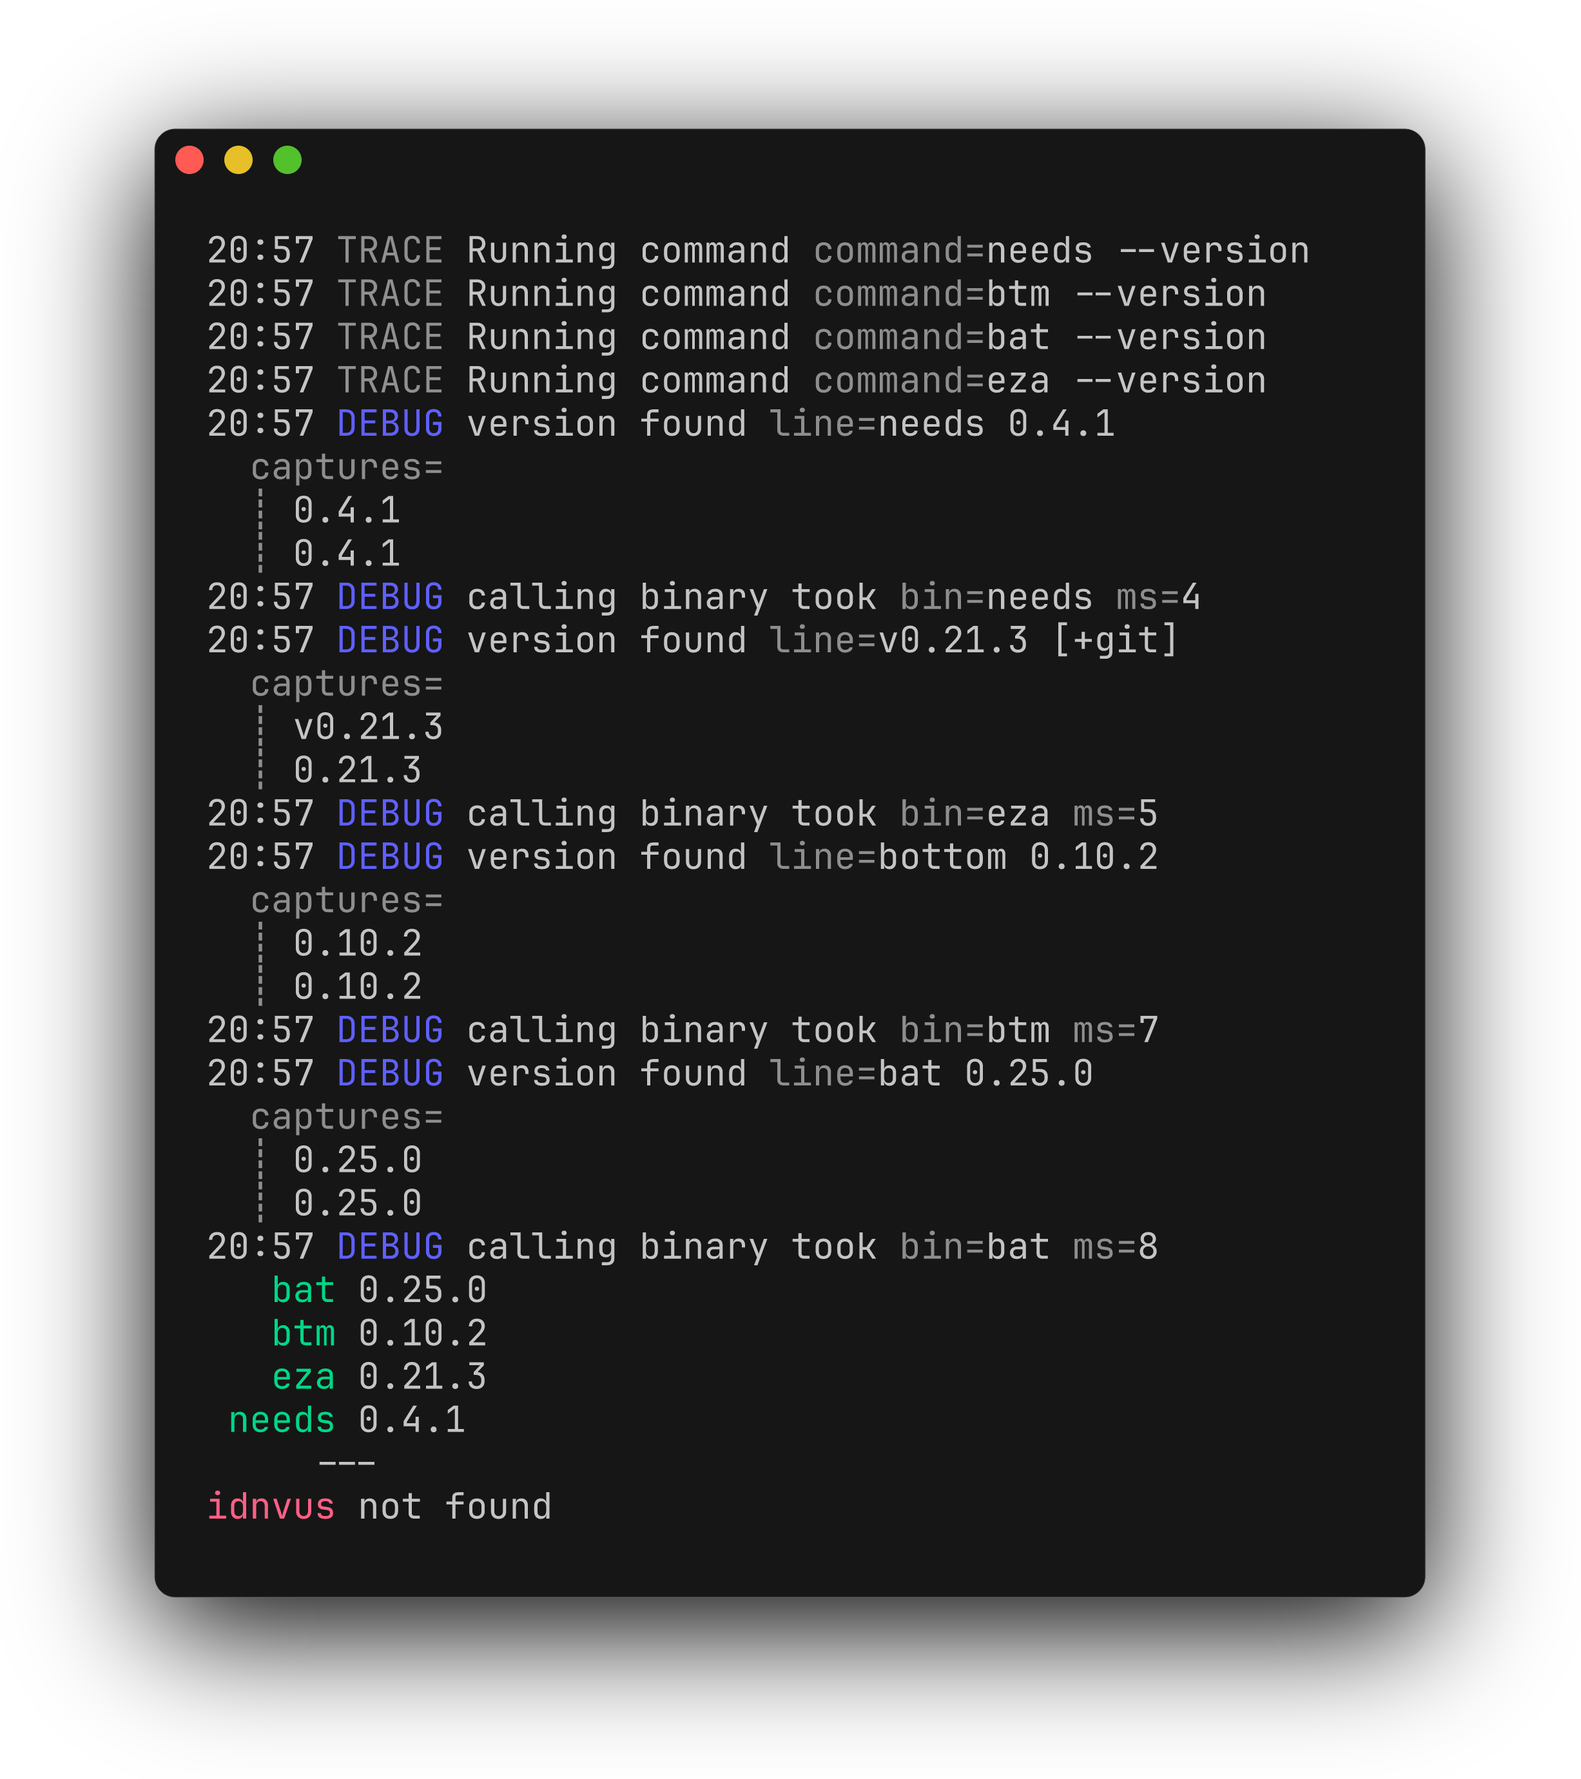
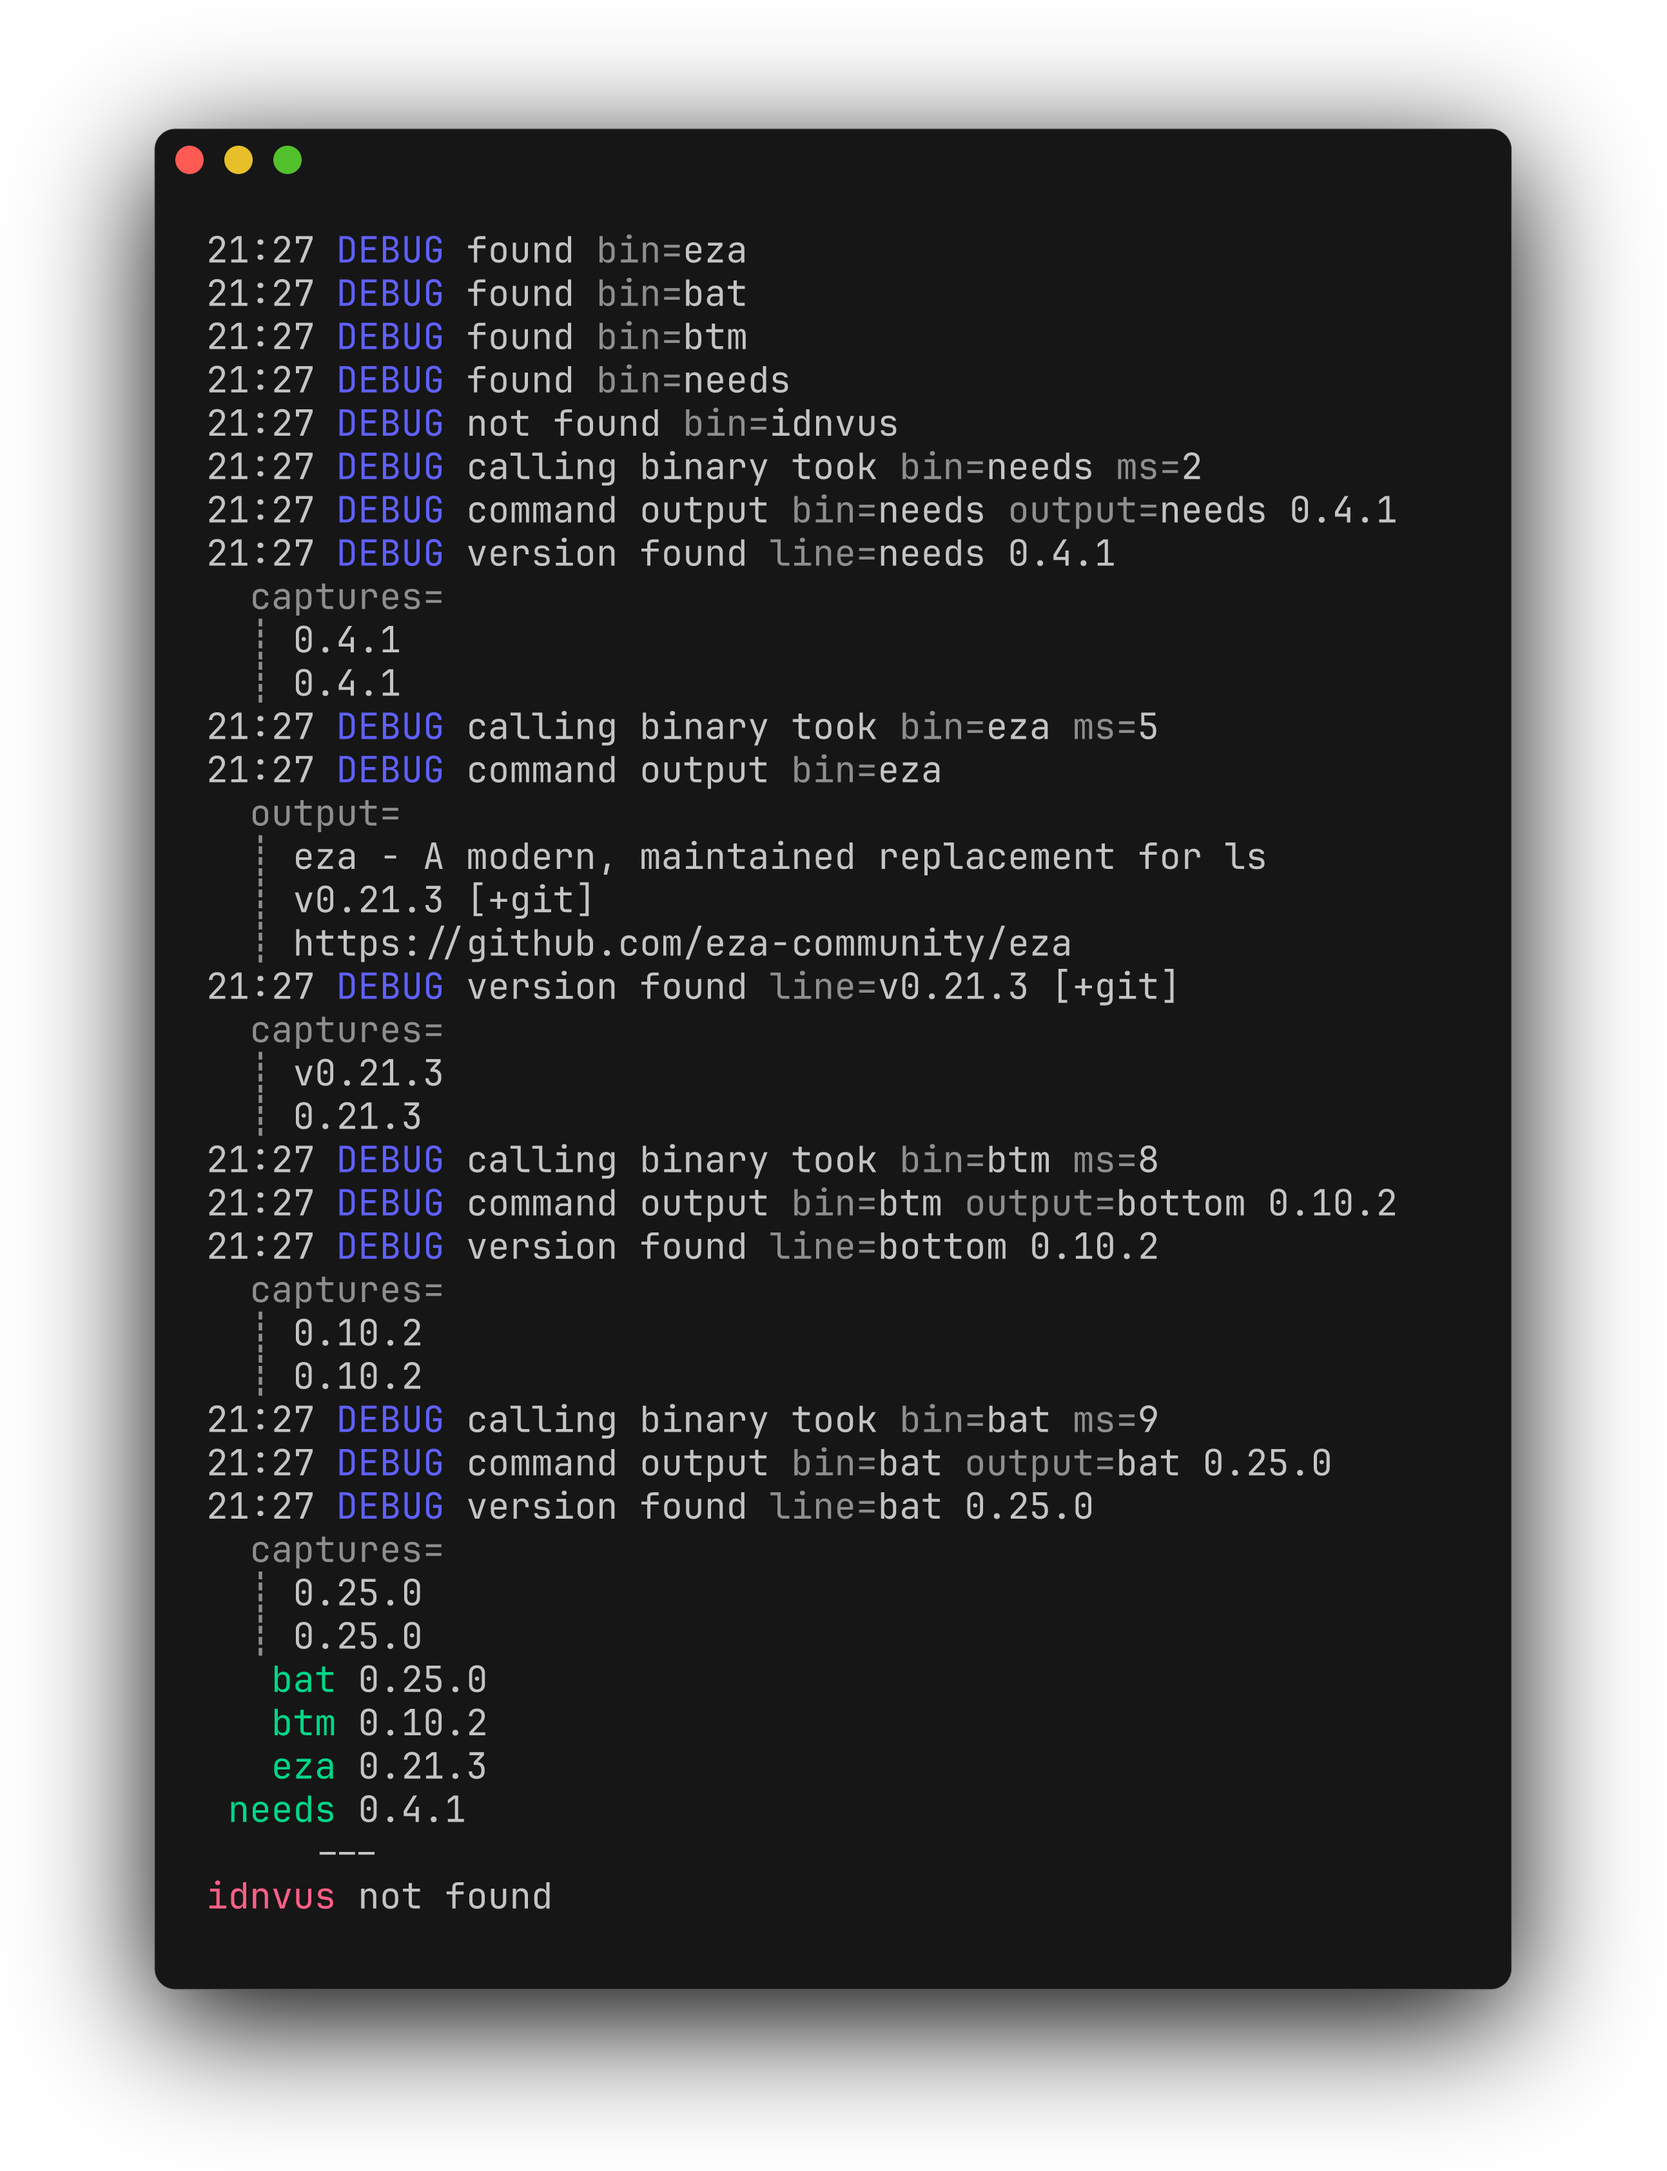
feat: add more debug info

Changed region(s): [[0.062, 0.0312, 0.9295, 0.9659], [0.7436, 0.6543, 0.7746, 0.6855]]

diff --git a/src/main.rs b/src/main.rs
@@ -40,8 +40,6 @@ impl Default for Binary<'_> {
   }
 }
 
-// TODO: impl join for binary names
-
 fn partition_binaries(binaries_to_check: Vec<Binary<'_>>) -> (Vec<Binary<'_>>, Vec<Binary<'_>>) {
   let mut available: Vec<Binary> = Vec::new();
   let mut not_available: Vec<Binary> = Vec::new();
@@ -49,8 +47,10 @@ fn partition_binaries(binaries_to_check: Vec<Binary<'_>>) -> (Vec<Binary<'_>>, V
   for binary in binaries_to_check {
     let name = binary.name.as_ref();
     if which::which(name).is_ok() {
+      debug!(bin = name; "found");
       available.push(binary);
     } else {
+      debug!(bin = name; "not found");
       not_available.push(binary);
     }
   }
@@ -94,13 +94,10 @@ fn run_command_with_version<'a>(_binary_name: &str) -> Option<Cow<'a, str>> {
 
 #[cfg(feature = "version-retrieval")]
 fn extract_version(output: Cow<str>) -> String {
-  use log::warn;
-
   static VERSION_REGEX: Lazy<Regex> =
     Lazy::new(|| Regex::new(r"v?(\d+\.\d+(?:\.\d+)?(?:[-+].+?)?)").unwrap());
 
   let mut version_to_return: String = "?".into();
-  let mut version_successfully_extracted = false;
   let lines = output.lines().collect::<Vec<_>>();
 
   for line in &lines {
@@ -114,13 +111,8 @@ fn extract_version(output: Cow<str>) -> String {
           .join("\n");
         debug!(captures = formatted_captures.as_str(), line = line; "version found");
       }
-      version_successfully_extracted = true;
       break;
     }
-  }
-
-  if !version_successfully_extracted {
-    warn!(output = lines.join("\n").as_str(); "couldn't extract version from this:");
   }
 
   version_to_return // Return the extracted version or "?" at the end
@@ -191,6 +183,8 @@ fn get_versions(binaries: Vec<Binary>) -> Vec<Binary> {
               ms = now.elapsed().as_millis();
               "calling binary took"
           );
+          debug!(
+            bin = binary.name.as_ref(), output = output.as_ref(); "command output");
           Binary::new(binary.name, Cow::owned(extract_version(output)))
         }
         None => {
@@ -223,39 +217,6 @@ fn print_center_aligned(binaries: Vec<Binary>, max_len: usize, always_found: boo
     println!("{}{} {}", padding, bin.name.bright_green(), version_display);
   }
   Ok(())
-}
-
-pub const CLAP_STYLING: clap::builder::styling::Styles = clap::builder::styling::Styles::styled()
-  .header(clap_cargo::style::HEADER)
-  .usage(clap_cargo::style::USAGE)
-  .literal(clap_cargo::style::LITERAL)
-  .placeholder(clap_cargo::style::PLACEHOLDER)
-  .error(clap_cargo::style::ERROR)
-  .valid(clap_cargo::style::VALID)
-  .invalid(clap_cargo::style::INVALID);
-
-#[derive(Parser)]
-#[command(version, about, long_about)]
-#[command(styles = CLAP_STYLING)]
-/// Check if given bin(s) are available in the PATH
-///
-/// If no binaries are specified, it will look for a file named `needsfile` or `.needsfile` in the current directory.
-struct Cli {
-  /// List of binaries to check
-  bins: Option<Vec<String>>,
-
-  /// stay quiet, exit with 0 or 1
-  #[clap(short, long)]
-  quiet: bool,
-
-  /// Verbosity level (can be repeated, e.g. -vvv)
-  #[clap(short, long, action = clap::ArgAction::Count)]
-  verbosity: u8,
-
-  #[cfg(feature = "version-retrieval")]
-  /// don't check for versions
-  #[clap(short, long)]
-  no_versions: bool,
 }
 
 struct Collect<'kvs>(BTreeMap<Key<'kvs>, Value<'kvs>>);
@@ -352,6 +313,39 @@ fn setup_logger(verbosity: u8) -> Result<(), fern::InitError> {
     .chain(std::io::stdout())
     .apply()?;
   Ok(())
+}
+
+pub const CLAP_STYLING: clap::builder::styling::Styles = clap::builder::styling::Styles::styled()
+  .header(clap_cargo::style::HEADER)
+  .usage(clap_cargo::style::USAGE)
+  .literal(clap_cargo::style::LITERAL)
+  .placeholder(clap_cargo::style::PLACEHOLDER)
+  .error(clap_cargo::style::ERROR)
+  .valid(clap_cargo::style::VALID)
+  .invalid(clap_cargo::style::INVALID);
+
+#[derive(Parser)]
+#[command(version, about, long_about)]
+#[command(styles = CLAP_STYLING)]
+/// Check if given bin(s) are available in the PATH
+///
+/// If no binaries are specified, it will look for a file named `needsfile` or `.needsfile` in the current directory.
+struct Cli {
+  /// List of binaries to check
+  bins: Option<Vec<String>>,
+
+  /// stay quiet, exit with 0 or 1
+  #[clap(short, long)]
+  quiet: bool,
+
+  /// Verbosity level (can be repeated, e.g. -vvv)
+  #[clap(short, long, action = clap::ArgAction::Count)]
+  verbosity: u8,
+
+  #[cfg(feature = "version-retrieval")]
+  /// don't check for versions
+  #[clap(short, long)]
+  no_versions: bool,
 }
 
 fn main() -> Result<()> {
